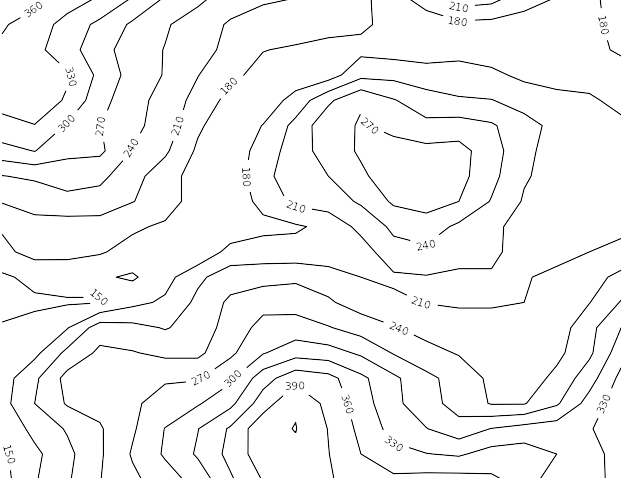
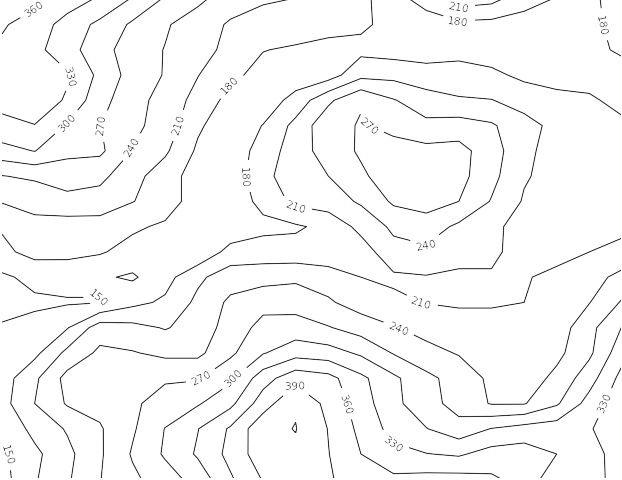
Fade debug stuff. Prevent click to zoom

diff --git a/templates/map/home.html b/templates/map/home.html
@@ -20,7 +20,7 @@
           latLng:{lat:53.010278, lng:-6.3275},   /*center of map in latitude/longitude*/
           mtype:'map',                               /*map type (map)*/
           bestFitMargin:0,                           /*margin offset from the map viewport when applying a bestfit on shapes*/
-          zoomOnDoubleClick:true                     /*zoom in when double-clicking on map*/
+          zoomOnDoubleClick:false                     /*zoom in when double-clicking on map*/
         };
 
         /*Construct an instance of MQA.TileMap with the options object*/
@@ -45,7 +45,7 @@
 			$('#output-ul').html('top-left: (' + currentUpperLeftLat + ',' + currentUpperLeftLng + ')</br>');
 			var currentLowerRightLat = window.map.getBounds().lr.getLatitude();
 			var currentLowerRightLng = window.map.getBounds().lr.getLongitude();
-			$('#output-lr').html('top-left: (' + currentLowerRightLat + ',' + currentLowerRightLng + ')</br>');
+			$('#output-lr').html('lower-right: (' + currentLowerRightLat + ',' + currentLowerRightLng + ')</br>');
 			$("#image-link").attr("href", "/contour_image/?ul=" + currentUpperLeftLat + ',' + currentUpperLeftLng + '&lr=' + currentLowerRightLat + ',' + currentLowerRightLng)
 			
     /*Set the URL of the image*/
@@ -80,10 +80,10 @@
   	</div>
    </div>
    <div style="margin-left:0px; width:794px; height:810px; background-image:url('{{STATIC_URL}}grass.jpg'); padding-top: 20px;" >
-    <div id='map' style='background-color:rgba(0, 0, 0, 0.6); display: block; padding: 8px; margin-left: 200px; width:400px; height:400px;'></div>
-    <div id='output-ul' style='font-family:"courier"' >Output:<br/></div>
-    <div id='output-lr' style='font-family:"courier"' >Output:<br/></div>
-    <a id="image-link" href="">Image</a>
+    <div id='map' style='background-color:rgba(0, 0, 0, 0.6); display: block; padding: 8px; margin-left: 200px; margin-bottom: 100px; width:400px; height:400px;'></div>
+    <div id='output-ul' style='opacity: 0.2; font-family:"courier"' >Output:<br/></div>
+    <div id='output-lr' style='opacity: 0.2; font-family:"courier"' >Output:<br/></div>
+    <a style = "opacity: 0.2" id="image-link" href="">link to contour image</a>
 	</div>  
   </body>
 </html>

diff --git a/map/views.py b/map/views.py
@@ -109,7 +109,7 @@ def grid (upper_lat, lower_lat, left_lng, right_lng, mtype):
     if (mtype != 'map'):
         CS = plt.contour(lats, lngs, np.array(hts), 10, colors='#999999',)
     else:
-        CS = plt.contour(lats, lngs, np.array(hts), 10, colors='#000000',)
+        CS = plt.contour(lats, lngs, np.array(hts), 10, colors='#333333',)
 
     plt.clabel(CS,  # label every second level
            inline=1,
